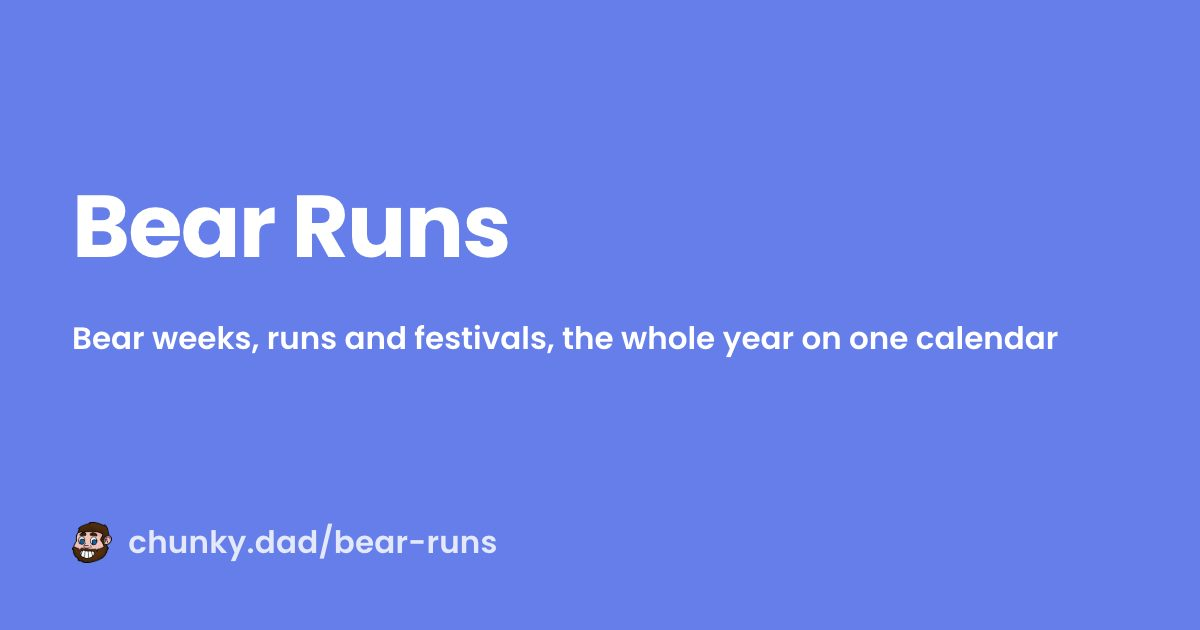
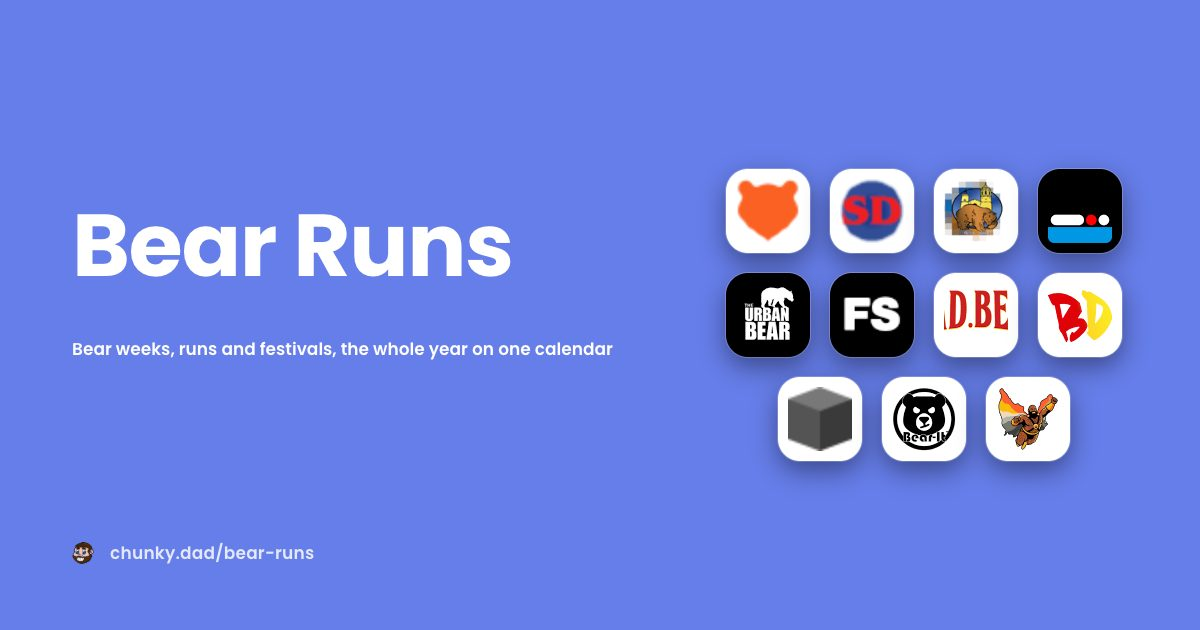
Run cards wear their brand colours, and the runs card shows the runs
**Colours, with zero client changes.** The loader paints a card from
data/event-colors/<page-key>.json, and /bear-runs/ was fetching a file nothing
wrote. The colour extractor's festival pass only ever fed festivals into the
city file each one belongs to; it now also runs a `bear-runs` pass — no ICS,
every dated festival regardless of city — and writes bear-runs.json keyed by
the same festival-<key>-<year> slug the site renders them under. CI already
runs the extractor with no arguments, so the file maintains itself. Verified
in a browser: Southern Decadence red, Bears Sitges blue, Folsom Europe blue
on a black plate, Urban Bear on black — the same treatment a city page gives
its events.

**The share card.** Where a city card puts its map, the runs card now puts the
runs: one favicon tile per dated run on its plate colour, the same tile the
city card pins and the event card wears in its corner. Eleven of the sixteen
dated runs.

Two rules for which runs get a tile, and one of them I got wrong first.

Only a run the colour extractor accepted. Its judgement already refuses
platform sites, and the tiles those produced were the worst thing on the
first render: two blank white squares, and Instagram's own logo standing in
for Bear Pride Chicago. No tile beats a wrong one.

NOT filtered on `accent`. That looked like the way to drop the one remaining
fake — IBC's grey placeholder cube — because the extractor omits accent for
[…]

Changed region(s): [[0.0617, 0.2413, 0.9558, 0.7841], [0.0617, 0.3016, 0.4317, 0.4524], [0.0617, 0.8143, 0.4317, 0.9048]]

diff --git a/tools/og-card.js b/tools/og-card.js
@@ -79,6 +79,10 @@ const OG_TEMPLATE_VERSION = 4;
 // 3: larger pin tiles.
 // 4: pin ring dropped to the site's own 0.22 — 0.9 haloed dark artwork.
 // 5: title line-height back to the base 1.15; 1.06 clipped descenders.
+// (The runs card's tile cluster needed no bump: its CSS applies only under
+// .has-tiles, and the tiles ride in as card DATA, so that card re-renders on
+// its own while the city and home cards stay byte-identical — bumping here
+// moved the ?v= on 24 city pages whose images had not changed.)
 const OG_PLACE_TEMPLATE_VERSION = 5;
 
 // Bootstrap Icons geometry, inlined — same paths the cards use.
@@ -637,8 +641,19 @@ function buildOgCardHtml(data) {
     // have no flyer to hang the layout on, so the map stops being a corner
     // inset and becomes the artwork instead. Anything falsy leaves the card
     // exactly as it was.
-    const kind = d.kind === 'city' || d.kind === 'home' ? d.kind : '';
+    const kind = d.kind === 'city' || d.kind === 'home' || d.kind === 'runs' ? d.kind : '';
     const kindClass = kind ? ` place ${kind}-card` : '';
+
+    // The runs card has no map to fill its right half, so it fills it with
+    // the runs themselves: one favicon tile per dated run, on its own plate
+    // colour — the same tile the city card pins on its map and the event
+    // card wears in its corner, so it reads as the same family.
+    const tiles = kind === 'runs' && Array.isArray(d.tiles)
+        ? d.tiles.filter(t => t && safeUrl(t.icon)).slice(0, 18)
+        : [];
+    const tilesHtml = tiles.length
+        ? `<div class="tiles">${tiles.map(t => `<span class="tile" style="background:${esc(parseHexColor(t.plate || '') ? t.plate : '#ffffff')}"><img src="${safeUrl(t.icon)}" alt="" onerror="this.parentNode.remove()"></span>`).join('')}</div>`
+        : '';
 
     const titleLength = String(d.title || '').length;
     const titleClass = kind
@@ -981,10 +996,40 @@ ${m ? '<link rel="stylesheet" href="https://unpkg.com/maplibre-gl@5.24.0/dist/ma
   /* a city with no pinnable venues shows a bare map rather than a lone dot in
      the middle of it — an unlabelled marker means nothing on a city card */
   body.place .og-pin.plain { display: none; }
+
+  /* ---- the runs card's tile cluster -----------------------------------
+     Takes the map's column. A loose grid rather than a strict one: the tiles
+     are staggered by row so it reads as a gathering of marks, not a
+     spreadsheet, and the count varies with how many runs are dated. */
+  body.place.has-tiles { padding-right: 566px; }
+  body.place .tiles {
+    position: absolute;
+    right: 56px;
+    top: 50%;
+    transform: translateY(-50%);
+    width: 440px;
+    display: flex;
+    flex-wrap: wrap;
+    justify-content: center;
+    align-content: center;
+    gap: 20px 20px;
+  }
+  body.place .tile {
+    width: 84px;
+    height: 84px;
+    border-radius: 22px;
+    overflow: hidden;
+    background: #fff;
+    box-shadow: 0 0 0 1px rgba(255, 255, 255, 0.22), 0 10px 26px rgba(6, 8, 20, 0.45);
+    display: block;
+  }
+  body.place .tile img { display: block; width: 100%; height: 100%; object-fit: contain; padding: 10px; }
+  /* a plain grid: at a dozen tiles a stagger read as a broken layout, not a
+     loose one */
   body.home-card .title { letter-spacing: -0.02em; }
 </style>
 </head>
-<body class="${board.className}${flyer ? '' : ' no-art'}${m ? '' : ' no-map'}${kindClass}">
+<body class="${board.className}${flyer ? '' : ' no-art'}${m ? '' : ' no-map'}${kindClass}${tiles.length ? ' has-tiles' : ''}">
   ${flyer ? `<div class="art"><img src="${flyer}" alt="" onerror="document.body.classList.add('no-art')"></div>` : ''}
   <div class="copy">
     <div class="titlerow">
@@ -999,6 +1044,7 @@ ${m ? '<link rel="stylesheet" href="https://unpkg.com/maplibre-gl@5.24.0/dist/ma
     ${brandMark}
   </div>
   ${m ? '<div class="map" id="ogmap"></div>' : ''}
+  ${tilesHtml}
   ${m ? mapScript(mapJson) : ''}
   ${readyScript(bannerRatio)}
 </body>

diff --git a/tools/generate-og-images.js b/tools/generate-og-images.js
@@ -445,6 +445,49 @@ function collectCityPins(cityKey, limit = 8) {
     .slice(0, limit);
 }
 
+/**
+ * One tile per dated run: its favicon on its plate. Dated only — a run with
+ * no nextDates is not on the calendar this card is for. Ordered by start
+ * date so the cluster is stable run to run and the render gate holds.
+ * Plates come from data/event-colors/bear-runs.json, which the colour
+ * extractor writes for every festival under the same festival-<key>-<year>
+ * slug the site renders them by; a run with no entry yet gets a white plate.
+ */
+function collectRunTiles() {
+  let festivals = [];
+  try {
+    const raw = JSON.parse(fs.readFileSync(path.join(ROOT, 'data', 'festivals.json'), 'utf8'));
+    festivals = Array.isArray(raw) ? raw : (raw.festivals || []);
+  } catch {
+    return [];
+  }
+  const colors = loadEventColors('bear-runs');
+  return festivals
+    .filter(f => f && f.website && f.nextDates && f.nextDates.start && f.nextDates.end)
+    .sort((a, b) => String(a.nextDates.start).localeCompare(String(b.nextDates.start)))
+    .map(f => {
+      const year = new Date(`${f.nextDates.start}T00:00:00`).getFullYear();
+      const entry = colors.get(`festival-${f.key}-${year}`);
+      // Only a run the colour extractor accepted. It already refuses platform
+      // sites (Eventbrite, Instagram) and artwork it cannot read a brand from,
+      // and the tiles those produced were the worst thing on the card: two
+      // blank white squares, a grey placeholder cube, and Instagram's own
+      // logo standing in for Bear Pride Chicago. No tile beats a wrong one.
+      if (!entry) return null;
+      // NOT filtered on `accent`. That looked like the way to drop a host's
+      // grey placeholder cube (IBC), but black-and-white marks — Folsom Street
+      // Fair, Urban Bear NYC, Sugar Bear — are colourless by design and carry
+      // no accent either; the rule threw out three real logos to lose one
+      // fake. A placeholder favicon is a data problem: curate the icon for
+      // that domain and it corrects here and on every card at once.
+      const icon = dataUri(localFaviconFile(f.website));
+      if (!icon) return null;
+      const plate = /^#[0-9a-fA-F]{3,8}$/.test(entry.faviconPlate || '') ? entry.faviconPlate : '#ffffff';
+      return { icon, plate };
+    })
+    .filter(Boolean);
+}
+
 function collectPlaceTargets() {
   const { CITY_CONFIG } = require(path.join(ROOT, 'js', 'city-config.js'));
   const out = [];
@@ -485,11 +528,13 @@ function collectPlaceTargets() {
     outPath: path.join(OUTPUT_DIR, `bear-runs${CARD_EXT}`),
     manifestKey: 'bear-runs',
     card: {
-      kind: 'home',
+      kind: 'runs',
       title: 'Bear Runs',
       when: 'Bear weeks, runs and festivals, the whole year on one calendar',
       cityPath: 'bear-runs',
-      logoUrl
+      logoUrl,
+      // one favicon tile per dated run, on its plate colour
+      tiles: collectRunTiles()
     }
   });
 

diff --git a/tools/extract-favicon-colors.js b/tools/extract-favicon-colors.js
@@ -866,18 +866,28 @@ function ensureDir(dir) {
   if (!fs.existsSync(dir)) fs.mkdirSync(dir, { recursive: true });
 }
 
-async function processEvents(cityKey) {
-  const icsPath = path.join(ROOT, 'data', 'calendars', `${cityKey}.ics`);
-  if (!fs.existsSync(icsPath)) return;
+// The bear-runs calendar is not a city: it has no ICS, and it shows EVERY
+// dated festival rather than the ones assigned to one city. Its colours file
+// (data/event-colors/bear-runs.json) is what lets /bear-runs/ paint its cards
+// the way a city page does — the loader fetches event-colors/<page>.json by
+// the page's key, and this is the page's key.
+const BEAR_RUNS_KEY = 'bear-runs';
 
-  const icalText = fs.readFileSync(icsPath, 'utf8');
-  let events;
-  try {
-    const calendar = new CalendarCore();
-    events = calendar.parseICalData(icalText) || [];
-  } catch (err) {
-    console.warn(`⚠  Could not parse ${cityKey}.ics: ${err.message}`);
-    return;
+async function processEvents(cityKey) {
+  const isRunsCalendar = cityKey === BEAR_RUNS_KEY;
+  const icsPath = path.join(ROOT, 'data', 'calendars', `${cityKey}.ics`);
+  if (!isRunsCalendar && !fs.existsSync(icsPath)) return;
+
+  let events = [];
+  if (!isRunsCalendar) {
+    const icalText = fs.readFileSync(icsPath, 'utf8');
+    try {
+      const calendar = new CalendarCore();
+      events = calendar.parseICalData(icalText) || [];
+    } catch (err) {
+      console.warn(`⚠  Could not parse ${cityKey}.ics: ${err.message}`);
+      return;
+    }
   }
 
   ensureDir(EVENT_COLORS_DIR);
@@ -899,7 +909,9 @@ async function processEvents(cityKey) {
       const festivalsRaw = JSON.parse(fs.readFileSync(festivalsPath, 'utf8'));
       const festivalList = Array.isArray(festivalsRaw) ? festivalsRaw : (festivalsRaw.festivals || []);
       for (const fest of festivalList) {
-        if (!fest || fest.cityKey !== cityKey || !fest.website) continue;
+        if (!fest || !fest.website) continue;
+        // a city takes its own festivals; the runs calendar takes them all
+        if (!isRunsCalendar && fest.cityKey !== cityKey) continue;
         const startRaw = fest.nextDates && fest.nextDates.start;
         const festYear = startRaw ? new Date(startRaw).getFullYear() : NaN;
         if (Number.isNaN(festYear)) continue;
@@ -1040,6 +1052,8 @@ async function main() {
         .filter(f => f.endsWith('.ics'))
         .forEach(f => cities.add(f.replace('.ics', '')));
     }
+    // not a city, but it has cards to colour — see processEvents
+    cities.add(BEAR_RUNS_KEY);
   }
 
   if (cityFilter) {

diff --git a/bear-runs/index.html b/bear-runs/index.html
@@ -87,11 +87,11 @@
   <meta property="og:title" content="Bear Runs - chunky.dad">
   <meta property="og:description" content="Every bear run, bear week and festival on one calendar">
   <meta property="og:url" content="https://chunky.dad/bear-runs/">
-  <meta property="og:image" content="https://chunky.dad/img/og/bear-runs.jpg?v=0599beb9">
+  <meta property="og:image" content="https://chunky.dad/img/og/bear-runs.jpg?v=deeb187b">
   <meta name="twitter:card" content="summary_large_image">
   <meta name="twitter:title" content="Bear Runs - chunky.dad">
   <meta name="twitter:description" content="Every bear run, bear week and festival on one calendar">
-  <meta name="twitter:image" content="https://chunky.dad/img/og/bear-runs.jpg?v=0599beb9">
+  <meta name="twitter:image" content="https://chunky.dad/img/og/bear-runs.jpg?v=deeb187b">
 </head>
 <body>
         <header>
